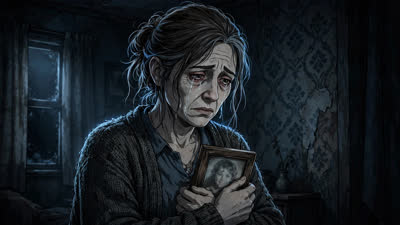
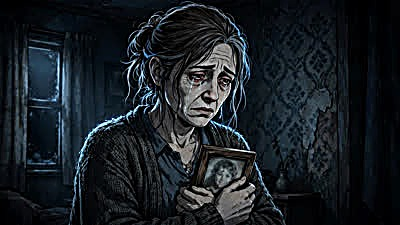
Sharpen all site images (unsharp mask + contrast), cache-bust image URLs

diff --git a/public/js/haunt.js b/public/js/haunt.js
@@ -107,17 +107,18 @@
   })();
 
   /* ── Wall of Names (faces underneath) ── */
+  var IMG_V = '?v=20261016q';
   var NAMES = [
-    { name: 'ELIAS',        img: '/img/apparitions/elias.jpg' },
-    { name: 'MARA',         img: '/img/apparitions/mara.jpg' },
-    { name: 'DANIEL VALE',  img: '/img/wall/daniel-vale.jpg' },
-    { name: 'JONAH BELL',   img: '/img/apparitions/jonah-bell.jpg' },
-    { name: 'RUTH MERCER',  img: '/img/apparitions/ruth-mercer.jpg' },
-    { name: 'ELENA MERCER', img: '/img/apparitions/lena-mercer.jpg' },
+    { name: 'ELIAS',        img: '/img/apparitions/elias.jpg' + IMG_V },
+    { name: 'MARA',         img: '/img/apparitions/mara.jpg' + IMG_V },
+    { name: 'DANIEL VALE',  img: '/img/wall/daniel-vale.jpg' + IMG_V },
+    { name: 'JONAH BELL',   img: '/img/apparitions/jonah-bell.jpg' + IMG_V },
+    { name: 'RUTH MERCER',  img: '/img/apparitions/ruth-mercer.jpg' + IMG_V },
+    { name: 'ELENA MERCER', img: '/img/apparitions/lena-mercer.jpg' + IMG_V },
     { name: 'THOMAS REED',  img: null }, /* face still lost to the dark */
-    { name: 'EVELYN SHAW',  img: '/img/wall/evelyn-shaw.jpg' },
-    { name: 'MARCUS',       img: '/img/wall/marcus.jpg' },
-    { name: 'CLAIRE',       img: '/img/wall/claire.jpg' },
+    { name: 'EVELYN SHAW',  img: '/img/wall/evelyn-shaw.jpg' + IMG_V },
+    { name: 'MARCUS',       img: '/img/wall/marcus.jpg' + IMG_V },
+    { name: 'CLAIRE',       img: '/img/wall/claire.jpg' + IMG_V },
     { name: 'THOMAS RUSK',  img: null }, /* face still lost to the dark */
     { name: 'RICHARD CRANE', img: null } /* face still lost to the dark */
   ];

diff --git a/public/css/style.css b/public/css/style.css
@@ -55,7 +55,7 @@ nav ul a:focus-visible { outline: 2px solid var(--blood); outline-offset: 4px; b
 }
 .hero::before {
   content: ""; position: absolute; inset: 0;
-  background: url('/img/series-key-art.webp') center/cover no-repeat;
+  background: url('/img/series-key-art.webp?v=20261016q') center/cover no-repeat;
   -webkit-animation: hero-breathe 42s ease-in-out infinite alternate;
   animation: hero-breathe 42s ease-in-out infinite alternate;
   will-change: transform;

diff --git a/config.js b/config.js
@@ -9,7 +9,7 @@ module.exports = {
   creator: "Maya Clark",
 
   // Bump this when CSS/JS/audio change so phones fetch fresh files.
-  assetV: "20261016p",
+  assetV: "20261016q",
 
   // Base URL of the deployed site (used for PayPal return URLs).
   // Locally: http://localhost:3000 — in production set the BASE_URL env var.
